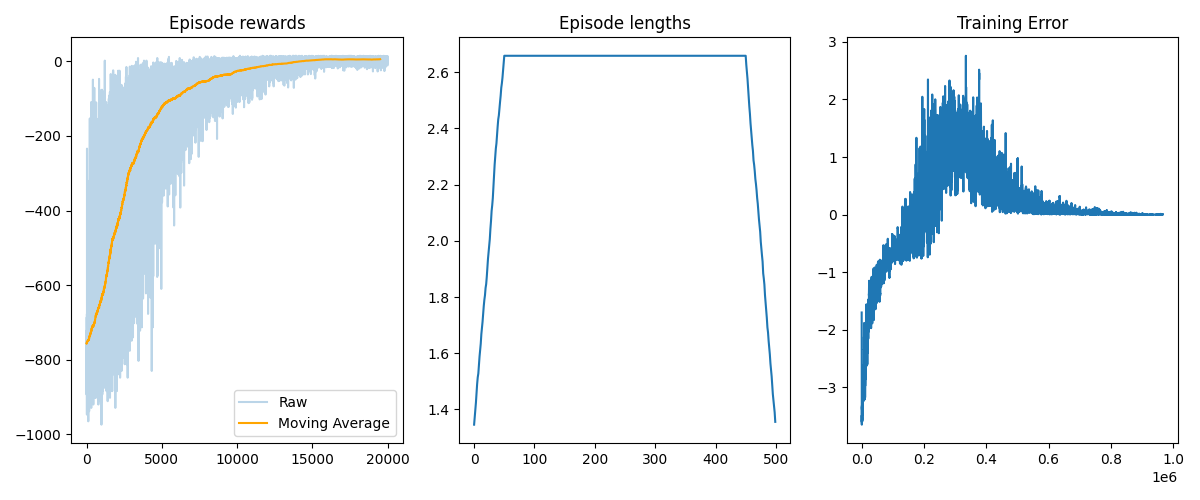
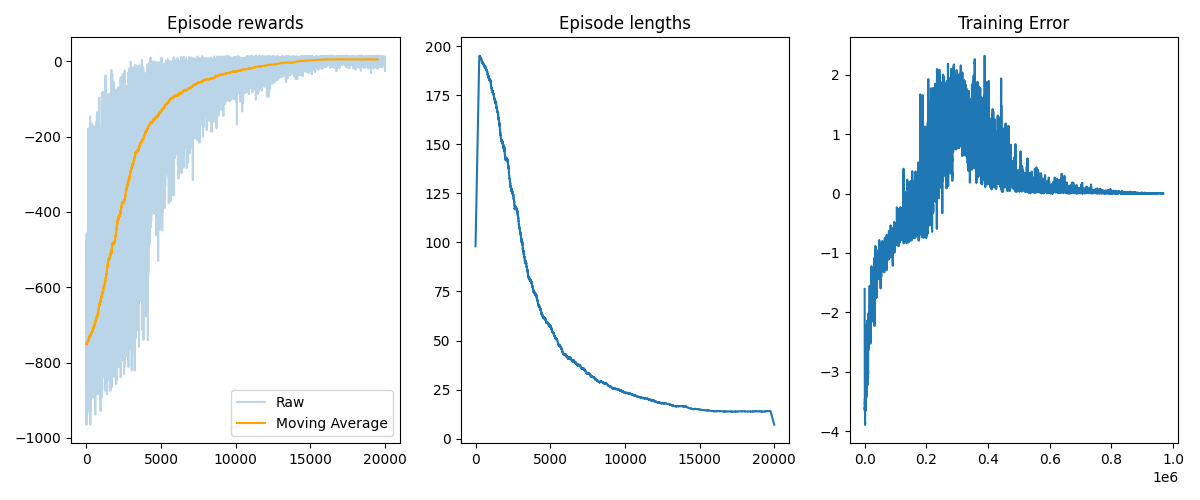
Correzione grafico

diff --git a/q_learning_taxi.py b/q_learning_taxi.py
@@ -17,11 +17,13 @@ def run(learning_rate, n_episodes, start_epsilon, epsilon_decay, final_epsilon):
         final_epsilon=final_epsilon,
     )
 
+    episode_lengths = []
     rewards_per_episode = np.zeros(n_episodes) #aggiunta questa cosa, inizializzo tutti a zero i rewards degli espisodi
     for episode in tqdm(range(n_episodes)):
 
         state_int, info = env.reset()
 
+        steps = 0
         rewards = 0
         episode_over = False
         penalties = 0
@@ -30,7 +32,7 @@ def run(learning_rate, n_episodes, start_epsilon, epsilon_decay, final_epsilon):
             next_state_int, reward, terminated, truncated, info = env.step(action)
             #print(f" reward from this single env.step: {reward}")
             
-
+            steps += 1
             if reward == -10 or reward == -1:
                 penalties += 1
 
@@ -46,12 +48,13 @@ def run(learning_rate, n_episodes, start_epsilon, epsilon_decay, final_epsilon):
                 print(f"[ep{episode}] action: {action}, reward: {reward}, penalties: {penalties}")
         #print(rewards)
         agent.decay_epsilon()
+        episode_lengths.append(steps)
         rewards_per_episode[episode] = rewards # aggiunta anche qui
-    return env, agent, rewards_per_episode
+    return env, agent, rewards_per_episode, episode_lengths
 
    
 
-def visualize_training(env, agent, rewards_per_episode):
+def visualize_training(env, agent, rewards_per_episode, episode_lengths):
     rolling_length = 500
     fig, axs = plt.subplots(ncols=3, figsize=(12, 5))
 
@@ -64,7 +67,7 @@ def visualize_training(env, agent, rewards_per_episode):
 
     # Length rolling average
     axs[1].set_title("Episode lengths")
-    lengths = np.array(env.length_queue)
+    lengths = np.array(episode_lengths)
     length_ma = np.convolve(lengths, np.ones(rolling_length), mode="same") / rolling_length
     axs[1].plot(length_ma)
 
@@ -108,13 +111,13 @@ if __name__ == "__main__":
     final_epsilon = 0.05
     epsilon_decay = (start_epsilon - final_epsilon) / (n_episodes * 0.8)
     
-    env, agent, rewards_per_episode = run(
+    env, agent, rewards_per_episode, episode_lengths= run(
         learning_rate=learning_rate,
         n_episodes=n_episodes,
         start_epsilon=start_epsilon,
         epsilon_decay=epsilon_decay,
         final_epsilon=final_epsilon,
     )
-    visualize_training(env, agent, rewards_per_episode)
+    visualize_training(env, agent, rewards_per_episode, episode_lengths)
     test_agent_visual(agent, n_episodes=3)
     env.close()
